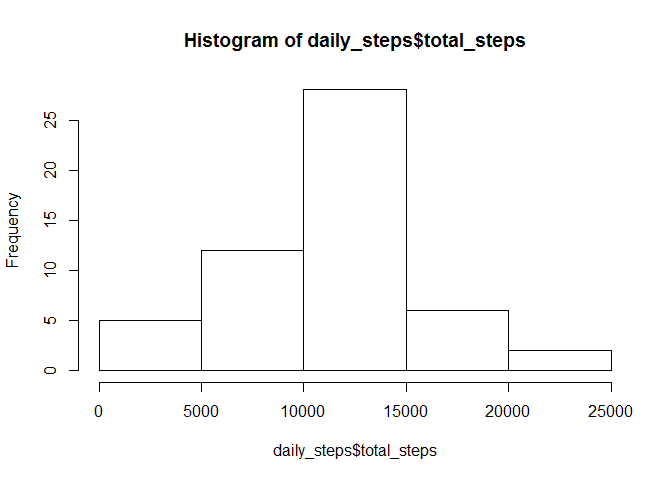
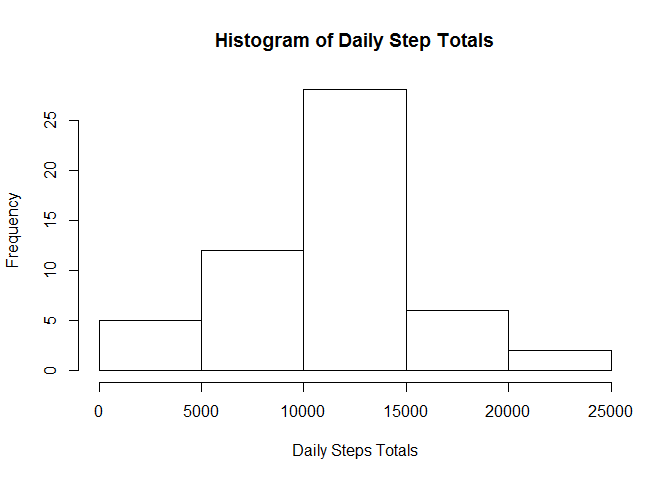
Up to step 3

Changed region(s): [[0.25, 0.0625, 0.7812, 0.125], [0.4062, 0.9062, 0.6562, 0.9688]]

diff --git a/PA1_template.html b/PA1_template.html
@@ -102,20 +102,28 @@ data &lt;- read.table(unz(&quot;activity data.zip&quot;, &quot;activity.csv&quot
 </div>
 <div id="what-is-mean-total-number-of-steps-taken-per-day" class="section level2">
 <h2>What is mean total number of steps taken per day?</h2>
-<div id="first-aggregate-total-steps-for-each-day" class="section level3">
-<h3>First aggregate total steps for each day</h3>
+<p>To determine the mean total number of steps per day, we first aggregate the daily totals using the aggregate() function and then use the daily totals to calculate the mean and the median of the daily step counts. We can also plot the distribution of daily step count using a histogram.</p>
 <pre class="r"><code>daily_steps &lt;- aggregate(data$steps, list(data$date), FUN=sum)
 names(daily_steps) &lt;- c(&quot;date&quot;, &quot;total_steps&quot;)
-hist(daily_steps$total_steps)</code></pre>
[1 lines of base64/hex data omitted]
+hist(daily_steps$total_steps, main=&quot;Histogram of Daily Step Totals&quot;, xlab = &quot;Daily Steps Totals&quot;)</code></pre>
[1 lines of base64/hex data omitted]
 <pre class="r"><code>mean(daily_steps$total_steps, na.rm = TRUE)</code></pre>
 <pre><code>## [1] 10766.19</code></pre>
 <pre class="r"><code>median(daily_steps$total_steps, na.rm = TRUE)</code></pre>
 <pre><code>## [1] 10765</code></pre>
 </div>
-</div>
 <div id="what-is-the-average-daily-activity-pattern" class="section level2">
 <h2>What is the average daily activity pattern?</h2>
+<p>To determine the average daily step pattern, we now aggregate the data across all days, and by time-bin. Then we can plot the averages and determine the most active time period (on average) of all of the days measured. We can then use the max() function to determine which interval averages the highest number of steps.</p>
+<pre class="r"><code>interval_avg &lt;- aggregate(data$steps, list(data$interval), FUN=mean, na.rm=TRUE)
+names(interval_avg) &lt;- c(&quot;Interval&quot;, &quot;TotalSteps&quot;)
+
+plot(interval_avg, type=&quot;l&quot;, main=&quot;AVerage steps per interval&quot;, xlab=&quot;Interval&quot;, ylab=&quot;Average No. Steps&quot;)</code></pre>
[1 lines of base64/hex data omitted]
+<pre class="r"><code>interval_avg[which(interval_avg$TotalSteps == max(interval_avg$TotalSteps)),]</code></pre>
+<pre><code>##     Interval TotalSteps
+## 104      835   206.1698</code></pre>
+<p>This shows that the 835 time interval on average has the most number of steps with a monthly average of 206.1698113 steps.</p>
 </div>
 <div id="imputing-missing-values" class="section level2">
 <h2>Imputing missing values</h2>

diff --git a/PA1_template.md b/PA1_template.md
@@ -62,13 +62,13 @@ head(data)
 
 ## What is mean total number of steps taken per day?
 
-### First aggregate total steps for each day
+To determine the mean total number of steps per day, we first aggregate the daily totals using the aggregate() function and then use the daily totals to calculate the mean and the median of the daily step counts.  We can also plot the distribution of daily step count using a histogram.
 
 
 ```r
 daily_steps <- aggregate(data$steps, list(data$date), FUN=sum)
 names(daily_steps) <- c("date", "total_steps")
-hist(daily_steps$total_steps)
+hist(daily_steps$total_steps, main="Histogram of Daily Step Totals", xlab = "Daily Steps Totals")
 ```
 
 ![](PA1_template_files/figure-html/unnamed-chunk-3-1.png)\
@@ -92,7 +92,29 @@ median(daily_steps$total_steps, na.rm = TRUE)
 
 ## What is the average daily activity pattern?
 
+To determine the average daily step pattern, we now aggregate the data across all days, and by time-bin.  Then we can plot the averages and determine the most active time period (on average) of all of the days measured.  We can then use the max() function to determine which interval averages the highest number of steps. 
 
+
+
+```r
+interval_avg <- aggregate(data$steps, list(data$interval), FUN=mean, na.rm=TRUE)
+names(interval_avg) <- c("Interval", "TotalSteps")
+
+plot(interval_avg, type="l", main="AVerage steps per interval", xlab="Interval", ylab="Average No. Steps")
+```
+
+![](PA1_template_files/figure-html/unnamed-chunk-4-1.png)\
+
+```r
+interval_avg[which(interval_avg$TotalSteps == max(interval_avg$TotalSteps)),]
+```
+
+```
+##     Interval TotalSteps
+## 104      835   206.1698
+```
+
+This shows that the 835 time interval on average has the most number of steps with a monthly average of 206.1698113 steps.
 
 ## Imputing missing values
 
